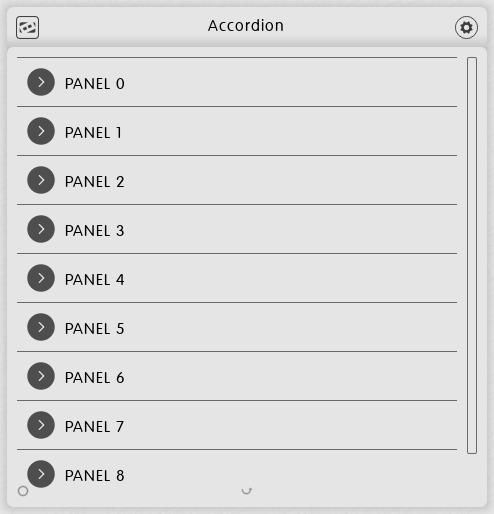
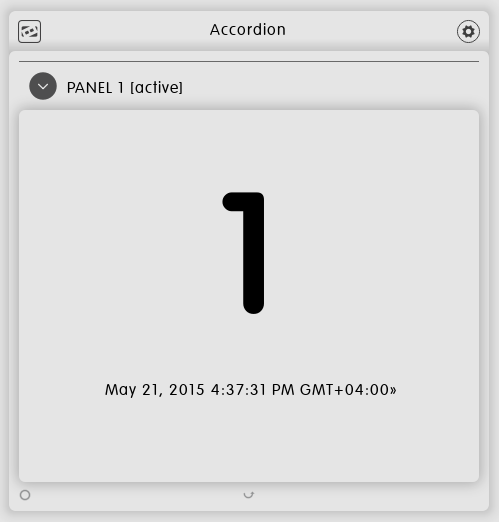
DD-644: custom margins for panel bodies

diff --git a/src/style/style.scss b/src/style/style.scss
@@ -27,9 +27,15 @@ body {
   width: 100%;
 
   div.dizmo-accordion {
-    .dizmo-accordion-panels {
-      .dizmo-accordion-panel {
+    ul.dizmo-accordion-panels {
+      li.dizmo-accordion-panel {
+        .dizmo-accordion-panel-header {
+          border-top: 1px solid dimgrey;
+        }
         .dizmo-accordion-panel-body {
+          height: calc(100% - 20px - 48px);
+          margin: 0 10px 10px;
+          width: calc(100% - 20px);
           .dizmo-accordion-panel-body-content {
             display: table;
             div {
@@ -45,11 +51,6 @@ body {
               }
             }
           }
-        }
-      }
-      .dizmo-accordion-panel {
-        .dizmo-accordion-panel-header {
-          border-top: 1px solid dimgrey;
         }
       }
     }
